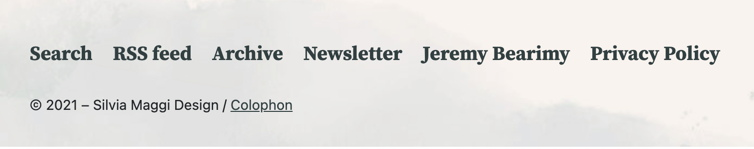
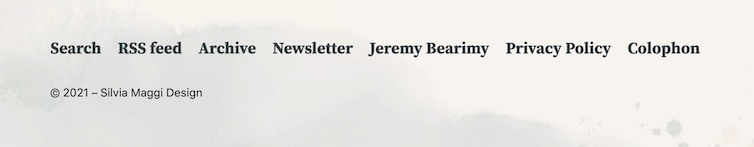
178 Copy fixes, footer changes, new image

diff --git a/_includes/site-footer.html b/_includes/site-footer.html
@@ -3,7 +3,7 @@
     {%- include navigation-footer.html %}
     <div class="d-block d-md-none text-center mt-3">{%- include navigation-social.html %}</div>
     <div class="d-md-flex flex-nowrap flex-sm-wrap justify-content-md-between py-4">
-      <div class="d-md-flex text-center mb-4 mb-md-0"><p class="mb-0 ps-2 small">&copy; {{ site.time | date: '%Y' }} &ndash; {{ site.title }}&nbsp;/&nbsp;<a class="text-decoration-underline" href="{{ site.url }}/colophon/" title="About this site">Colophon</a></p></div>
+      <div class="d-md-flex text-center mb-4 mb-md-0"><p class="mb-0 ps-2 small">&copy; {{ site.time | date: '%Y' }} &ndash; {{ site.title }}</p></div>
       <div class="d-md-flex text-center align-items-md-end text-decoration-none">
         <a class="btn btn-smd btn-sm px-3 py-2 fw-bold" href="{{ page.url }}#top" title="Go to the top of the page">Top&nbsp;<svg xmlns="http://www.w3.org/2000/svg" width="16" height="16" fill="currentColor" class="bi bi-chevron-bar-up" viewBox="0 0 16 16"><path fill-rule="evenodd" d="M3.646 11.854a.5.5 0 0 0 .708 0L8 8.207l3.646 3.647a.5.5 0 0 0 .708-.708l-4-4a.5.5 0 0 0-.708 0l-4 4a.5.5 0 0 0 0 .708zM2.4 5.2c0 .22.18.4.4.4h10.4a.4.4 0 0 0 0-.8H2.8a.4.4 0 0 0-.4.4z"/></svg></a>
       </div>

diff --git a/_posts/2021-09-16-brand-new-website.md b/_posts/2021-09-16-brand-new-website.md
@@ -1,7 +1,7 @@
 ---
 title: Brand new website
 date: 2021-09-16
-last_modified_at: '2021-09-16 16:08:51'
+last_modified_at: '2021-09-16 21:47:33'
 featured-post: true
 categories:
   - Design
@@ -21,7 +21,7 @@ permalink: brand-new-website
 
 {% include pattern-figure-featured.html image="/assets/images/feat-brand-new-website.jpg" caption="New website, new branding" alt="Silvia Maggi Design new website" width="1200" height="500" %}
 
-<a href="https://minutestomidnight.co.uk" target="_blank" rel="noopener" title="Go to Simone's website">Simone</a> and I built my new website from scratch using [Jekyll](https://jekyllrb.com/){:target="_blank" rel="noopener" title="Go to the Jekyll website"} — a static site generator — and <a href="/colophon/" title="Read more about the technology used on my website">several other tools</a>. *I now have complete control over the code*. It felt natural to refresh logo and styling as well, like it often happens during a home restoration. I made some important changes, too. Let me show you around.
+<a href="https://minutestomidnight.co.uk" target="_blank" rel="noopener" title="Go to Simone's website">Simone</a> and I built my new website from scratch using **Jekyll** — a static site generator — and <a href="/colophon/" title="Read more about the technology used on my website">several other tools</a>. *I now have complete control over the code*. It felt natural to refresh logo and styling as well, like it often happens during a home restoration. I made some important changes, too. Let me show you around.
 
 ## Lock, stock, and barrel
 
@@ -42,7 +42,7 @@ Moving the content from WordPress to Jekyll — and within a new layout — mean
 
 My database on WordPress ballooned, so I seized the opportunity to delete useless tags and categories, reorganising the information architecture of the blog. If you like numbers, I used to have <code>303</code> tags! Most of which were, of course, barely used. You can find the renewed taxonomy in the footer menu, under [Archive](/archive/).
 
-{% include pattern-figure.html image="/assets/images/smd-footer.jpg" alt="Silvia Maggi Design website footer menu" caption="The footer menu containing the archive" width="754" height="149" %}
+{% include pattern-figure.html image="/assets/images/smd-footer.jpg" alt="Silvia Maggi Design website footer menu" caption="The footer menu containing the archive" width="754" height="147" %}
 
 ## Sustainability
 

diff --git a/_pages/colophon.md b/_pages/colophon.md
@@ -29,18 +29,18 @@ Hosted on [CloudFlare Pages](https://pages.cloudflare.com/){:target="_blank" rel
 
 ## Accessibility
 
-No accessibility errors for <abbr title="Web Content Accessibility Guidelines">WCAG</abbr> detected on [WAVE](https://wave.webaim.org/report#/https://silviamaggidesign.com/){:target="_blank"}.
+✅ No accessibility errors for <abbr title="Web Content Accessibility Guidelines">WCAG</abbr> detected on [WAVE](https://wave.webaim.org/report#/https://silviamaggidesign.com/){:target="_blank"}.
 
 ## Performance
 
 <ul class="smd-ul">
 <li>
-Valid markup code for <abbr title="World Wide Web Consortium">W3C</abbr> on <a href="https://validator.w3.org/nu/?doc=https%3A%2F%2Fsilviamaggidesign.com%2F" target="_blank">W3C validator</a>.</li>
+✅ Valid markup code for <abbr title="World Wide Web Consortium">W3C</abbr> on <a href="https://validator.w3.org/nu/?doc=https%3A%2F%2Fsilviamaggidesign.com%2F" target="_blank">W3C validator</a>.</li>
 <li>
-<a href="https://developers.google.com/speed/pagespeed/insights/?url=silviamaggidesign.com" target="_blank">Pagespeed benchmark</a> score: <code>99</code>.
+✅ <a href="https://developers.google.com/speed/pagespeed/insights/?url=silviamaggidesign.com" target="_blank">Pagespeed benchmark</a> score: <code>99</code>.
 </li>
 <li>
-<a href="https://gtmetrix.com/reports/silviamaggidesign.com/lo7jWUdi/" target="_blank">GTmetrix</a> performance report:
+✅ <a href="https://gtmetrix.com/reports/silviamaggidesign.com/lo7jWUdi/" target="_blank">GTmetrix</a> performance report:
 <ul>
 <li>Grade: <code>A (99% performance, 100% structure)</code></li>
 <li>Fully loaded time: <code>1.3 seconds</code></li>
